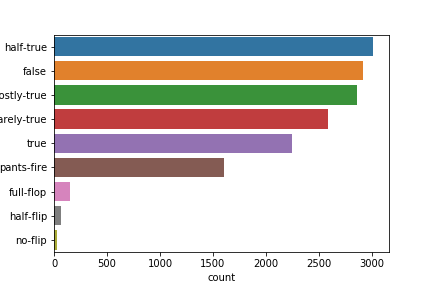
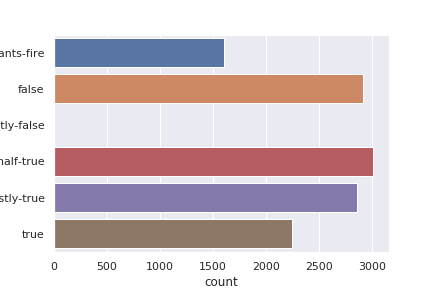
adds some more label plots

diff --git a/notebooks/bias_estimation.py b/notebooks/bias_estimation.py
@@ -50,6 +50,7 @@ from utils.statement_handling import extract_information, safe_json_read
 from importlib import reload
 import matplotlib.pyplot as plt
 import seaborn as sns
+sns.set()
 
 %matplotlib inline
 import utils.statement_handling as SH
@@ -97,16 +98,17 @@ statements.shape
 
 # <codecell>
 
-sns.barplot(data=group_and_count(statements, 'label'), x='count', y='label')
+truhometer_labels = ['pants-fire', 'false', 'mostly-false', 'half-true', 'mostly-true', 'true']
+only_truthometer_label_idx = statements['label'].isin(truhometer_labels)
+
+# <codecell>
+
+sns.barplot(data=group_and_count(statements.loc[only_truthometer_label_idx, :], 'label'), x='count', y='label', order=truhometer_labels)
 plt.savefig('../docs/images/label_counts_overall.png')
 
 # <codecell>
 
-statements[['statement_date']].describe()
-
-# <codecell>
-
-
+statements.loc[only_truthometer_label_idx,['statement_date']].describe()
 
 # <codecell>
 
@@ -118,12 +120,11 @@ def add_year(df, year):
     df['year'] = year
     return df
 
-truhometer_labels = ['pants-fire', 'false', 'mostly-false', 'half-true', 'mostly-true', 'true']
-only_truthometer_label_idx = statements['label'].isin(truhometer_labels)
 
 d = pd.concat([add_year(group_and_count(statements.loc[(statements['statement_date'].dt.year == year) & only_truthometer_label_idx,: ], 'label'), year) for year in b])
 f = plt.figure(figsize=(20, 10))
 sns.barplot(data=d, x='count', y='label', hue='year')
+plt.savefig('../docs/images/labels_over_years.png')
 
 # <codecell>
 

diff --git a/docs/index.md b/docs/index.md
@@ -14,7 +14,7 @@ of voted politicians in the USA.
 
 For this we collected **15471** statements from
 [politifact](https://www.politifact.com/). These were statements ranging from
-1995 to 2018, all were ruled on a scale from *pants-on-fire* to *true*. The
+2011 to 2018, all were ruled on a scale from *pants-on-fire* to *true*. The
 statements vary from state-politics to health over security concerns and were
 either submitted by the public or selected by the organisation itself for
 fact-checking. The second dataset are the public election results for 2012,
@@ -38,7 +38,13 @@ and later rechecked by three editors, the assigned label comes on a [scale of si
 - **FALSE**: The statement is not accurate.
 - **PANTS ON FIRE**: The statement is not accurate and makes a ridiculous claim.
 
+![labels_counts_overall](/images/label_counts_overall.png)
+
+As can be seen 
+
 ![labels_over_years](/images/labels_over_years.png)
+
+
 
 ## When were these statements made?
 
@@ -74,7 +80,7 @@ and later rechecked by three editors, the assigned label comes on a [scale of si
 
 PolitiFact [started in
 2007](https://www.politifact.com/truth-o-meter/article/2018/feb/12/principles-truth-o-meter-politifacts-methodology-i/)
-and describes itself as a "not-for-profit" organisation and is [owned by](https://www.politifact.com/truth-o-meter/article/2018/feb/12/principles-truth-o-meter-politifacts-methodology-i/#Our%20ownership) the [Poynter Institute for Media Studies](https://www.poynter.org/), but relies primarily on the financial support from the [Tampa Bay Times](http://www.tampabay.com/). 
+and describes itself as a "not-for-profit" organisation and is [owned by](https://www.politifact.com/truth-o-meter/article/2018/feb/12/principles-truth-o-meter-politifacts-methodology-i/#Our%20ownership) the [Poynter Institute for Media Studies](https://www.poynter.org/), but relies primarily on the financial support from the [Tampa Bay Times](http://www.tampabay.com/).
 Donations exceeding $1'000 are [publicly listed](https://www.politifact.com/truth-o-meter/blog/2011/oct/06/who-pays-for-politifact/). Around one third of the statements were [suggested by readers](https://www.politifact.com/truth-o-meter/article/2018/feb/12/principles-truth-o-meter-politifacts-methodology-i/).
 
 
